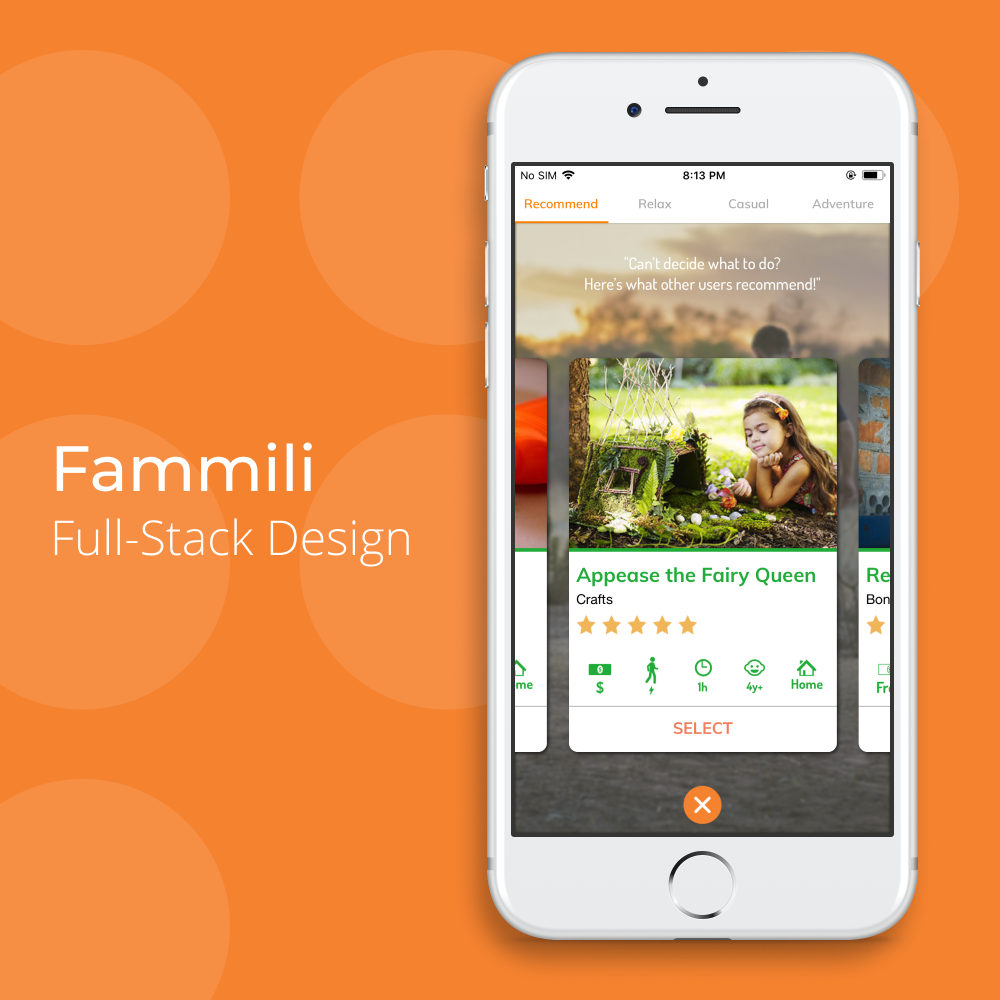
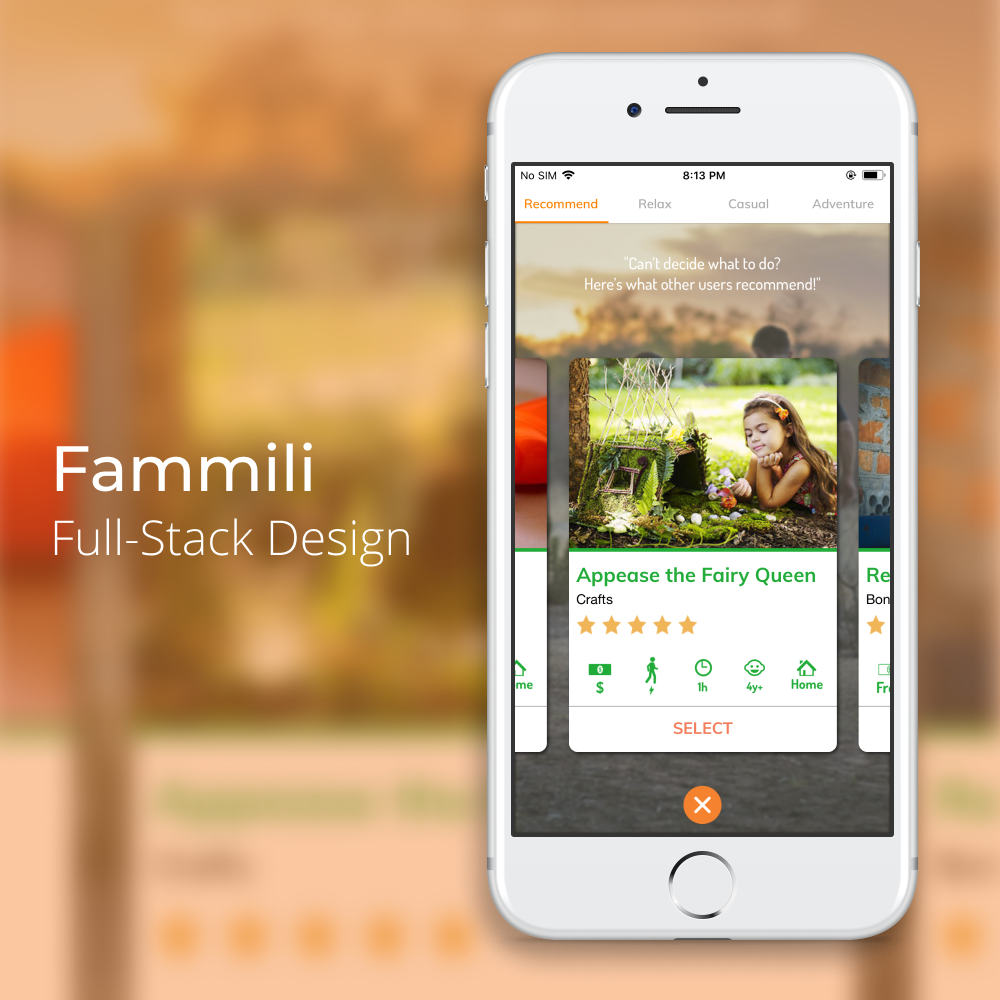
Replaced Thumbs

diff --git a/css/custom.css b/css/custom.css
@@ -3,7 +3,7 @@ body {
 }
 
 #body-container {
-	max-width: 1080px;
+	max-width: 1400px;
 	margin: auto;
 }
 
@@ -66,7 +66,7 @@ nav {
 
 #nav-container {
 	height: 50px;
-	max-width: 1080px;
+	max-width: 1400px;
 }
 
 #navbarSupportedContent {
@@ -119,7 +119,7 @@ nav {
 #footer {
 	margin: auto;
 	display: flex;
-	max-width: 1080px;
+	max-width: 1400px;
 	max-height: 200px;
 }
 
@@ -177,6 +177,7 @@ button.btn a{
   	background-repeat: no-repeat;
   	background-size: auto 400px;
   	background-position: center;
+  	filter: blur(2px);
   	height: 100%;
 }
 
@@ -226,7 +227,7 @@ button.btn a{
 	display: block;
 	margin-left: auto;
 	margin-right: auto;
-	max-height: 350px;
+	max-height: 1000px;
 	max-width: 100%;
 }
 
@@ -616,9 +617,15 @@ height: 100%;
 /* Media Queries  */
 
 @media (min-width: 576px) {
+	.parallax-wrapper {
+		width: 50%;
+		left: 50%;
+	}
+
 	.parallax {
-		background-size: 600px 600px;
-		background-position: top 50% right -50px;
+		max-width: 100%;
+		background-size: 45%;
+		background-position: top 50% right 5%;
 	}
 	.dd-override {
 		text-align: left;
@@ -716,6 +723,10 @@ height: 100%;
 
 	.overlay:hover {
 		opacity: 1;
+	}
+
+	.overlay:hover .thumb {
+		transform: scale(1.2);
 	}
 
 	.portfolio-item {
